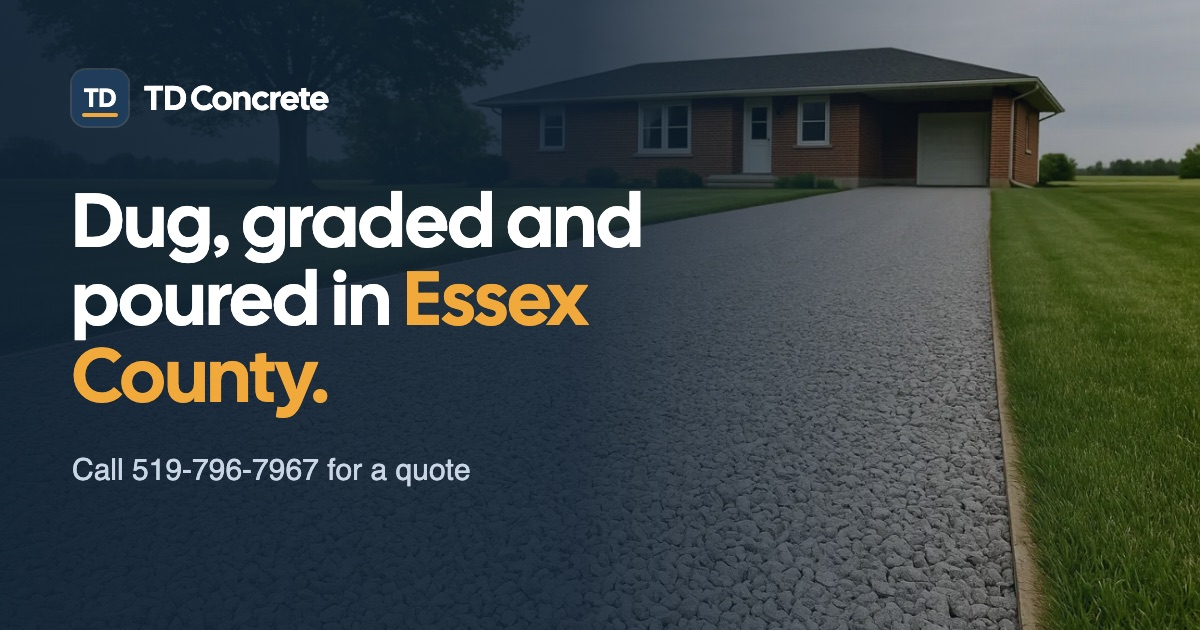
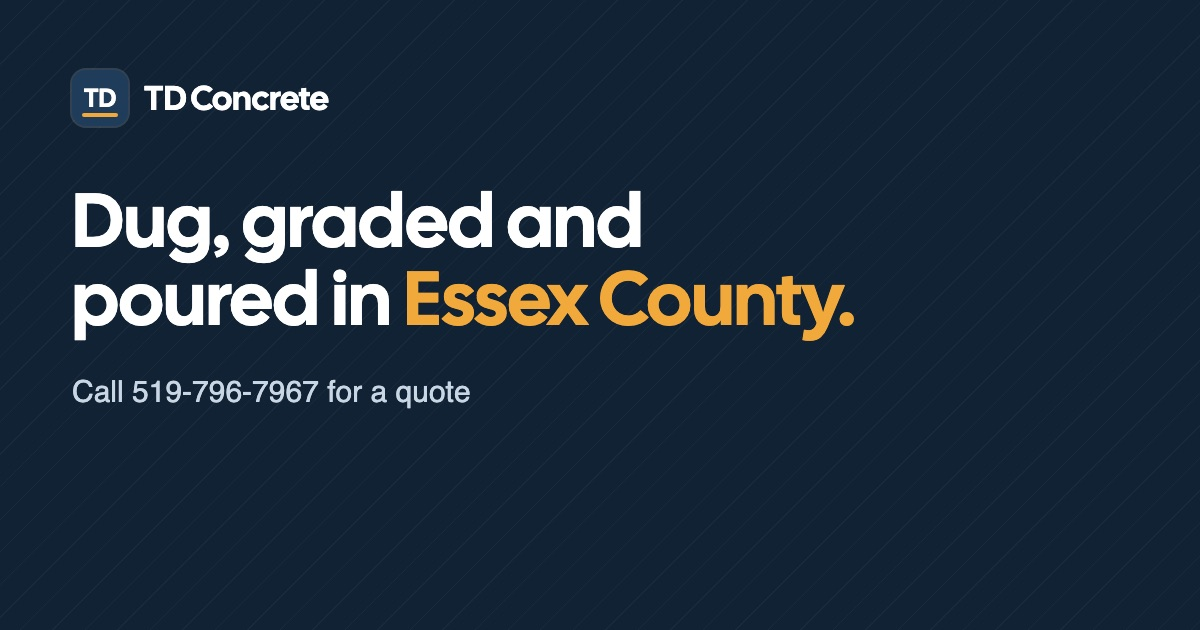
Apply Impeccable sweep and finish review fixes
Truer hero and step copy, new grey concrete example, Example: alts,
no accent on light headings, photo clear of hero buttons, job error in
its fieldset, 16px small text, TEXTS switch, per-job hints, plain og.

Claude-Session: https://claude.ai/code/session_019h48YhzNBt4QpN2Q8Ci4B8

diff --git a/index.html b/index.html
@@ -69,7 +69,7 @@ section{padding:64px 0}
 .accent{color:var(--amber-ink)}
 .on-navy .accent,.on-deep .accent,.hero .accent{color:var(--amber)}
 .head{display:grid;gap:16px;justify-items:start;max-width:640px}
-.lede{font-size:clamp(17px,4.6vw,19px);color:var(--soft);max-width:38ch}
+.lede{font-size:clamp(17px,4.6vw,19px);line-height:1.55;color:var(--soft);max-width:38ch}
 .on-navy .lede,.on-deep .lede{color:var(--on-dark-soft)}
 
 /* Eyebrow: a few key headings only. A label, not a button. */
@@ -102,7 +102,7 @@ section{padding:64px 0}
 .hero-photo{position:absolute;left:0;right:0;bottom:0;height:calc(var(--peek) + 24px);z-index:-2}
 .hero-photo img{width:100%;height:100%;object-fit:cover;object-position:62% 22%}
 .hero::after{content:"";position:absolute;inset:0;z-index:-1;pointer-events:none;background:linear-gradient(180deg,rgba(16,34,52,0) 0,rgba(16,34,52,0) calc(100% - var(--peek) - 24px),rgba(16,34,52,.96) calc(100% - var(--peek) - 24px),rgba(16,34,52,.55) calc(100% - var(--peek) + 30px),rgba(16,34,52,.08) 100%)}
-.hero-copy{position:relative;display:grid;gap:20px;justify-items:start;padding-top:48px;padding-bottom:var(--peek)}
+.hero-copy{position:relative;display:grid;gap:20px;justify-items:start;padding-top:48px;padding-bottom:calc(var(--peek) + 28px)}
 .hero h1{color:#fff;font-size:clamp(42px,12vw,80px);line-height:1.02;max-width:12ch}
 /* H1 bounce-in (after lpmr.co.uk): each letter slides in from 50px right with a slight overshoot, 20ms apart */
 .hero h1 .w{display:inline-block;white-space:nowrap}
@@ -160,14 +160,14 @@ input[type=text]:focus,textarea:focus{outline:none;border-color:var(--focus)}
 .chips label{display:inline-flex;align-items:center;min-height:48px;padding:0 18px;border-radius:var(--pill);background:var(--field);border:2px solid transparent;font:16px/1 var(--text);color:var(--ink);cursor:pointer;margin:0;transition:border-color .15s,background-color .15s,color .15s}
 .chips input:focus-visible+label{outline:3px solid var(--focus);outline-offset:2px}
 .chips input:checked+label{background:var(--ink);color:#fff}
-.err{display:none;font-size:15px;color:var(--error)}
+.err{display:none;font-size:16px;color:var(--error)}
 .field.bad .err{display:block}
 .field.bad input[type=text],.field.bad textarea,.field.bad input[type=text]:focus,.field.bad textarea:focus{border-color:var(--error)}
 form .btn-primary{width:100%}
 form .btn-primary:focus-visible{outline:2px solid var(--focus);outline-offset:2px}
-.after{font-size:15px;color:var(--soft)}
+.after{font-size:16px;color:var(--soft)}
 .sent{display:grid;gap:12px;padding:16px;border-radius:16px;background:var(--field);color:var(--ink)}
-.sent pre{margin:0;white-space:pre-wrap;font:15px/1.5 var(--text);color:var(--body)}
+.sent pre{margin:0;white-space:pre-wrap;font:16px/1.5 var(--text);color:var(--body)}
 .sent .row2{display:flex;flex-wrap:wrap;gap:10px 18px;align-items:center}
 .linkbtn{display:inline-flex;align-items:center;min-height:44px;padding:0 18px;border-radius:var(--pill);border:2px solid var(--ink);background:none;color:var(--ink);font:400 16px/1 var(--display);cursor:pointer;text-decoration:none}
 .nw{white-space:nowrap;font-variant-numeric:normal}
@@ -278,9 +278,9 @@ FINISH: unreviewed and undocumented is unfinished; this build ends with the fini
     <img src="img/hero-phone.webp" alt="" width="900" height="600" fetchpriority="high">
   </picture>
   <div class="wrap hero-copy">
-    <p class="eyebrow">Excavating &amp; concrete</p>
+    <p class="eyebrow">Homes &amp; businesses</p>
     <h1 id="h1">Dug, graded and poured in <span class="accent">Essex County.</span></h1>
-    <p class="promise">We come out, look at the job with you, and give you a straight quote.</p>
+    <p class="promise">Call or send us the job, and we'll get back to you with a straight quote.</p>
     <div class="actions">
       <a class="btn btn-primary" href="#quote">Get a quote</a>
       <a class="btn btn-ghost" href="#services">See what we do</a>
@@ -291,7 +291,7 @@ FINISH: unreviewed and undocumented is unfinished; this build ends with the fini
 <section class="on-navy" id="services" aria-labelledby="h-services">
   <div class="wrap">
     <div class="head rise">
-      <p class="eyebrow">Full excavating &amp; concrete</p>
+      <p class="eyebrow">Services</p>
       <h2 id="h-services">From the first dig to the <span class="accent">last load of stone.</span></h2>
     </div>
     <ul class="rows">
@@ -309,11 +309,11 @@ FINISH: unreviewed and undocumented is unfinished; this build ends with the fini
 
 <section class="on-paper" aria-labelledby="h-shots">
   <div class="wrap">
-    <h2 id="h-shots" class="rise">Big yard or small, <span class="accent">we'll quote it.</span></h2>
+    <h2 id="h-shots" class="rise">Big yard or small, we'll quote it.</h2>
     <ul class="shots">
-      <li class="rise"><a class="shot" href="#quote" data-job="Excavating"><img src="img/excavating.webp" alt="An excavator beside a freshly dug house foundation" width="720" height="900" loading="lazy" decoding="async"><span class="t">Excavating<span class="arrow" aria-hidden="true"><svg><use href="#i-arrow"/></svg></span></span></a></li>
-      <li class="rise"><a class="shot" href="#quote" data-job="Concrete"><img src="img/concrete.webp" alt="A freshly poured broom-finished concrete patio" width="720" height="900" loading="lazy" decoding="async"><span class="t">Concrete<span class="arrow" aria-hidden="true"><svg><use href="#i-arrow"/></svg></span></span></a></li>
-      <li class="rise"><a class="shot" href="#quote" data-job="Grading"><img src="img/grading.webp" alt="A backyard graded flat with fresh topsoil" width="720" height="900" loading="lazy" decoding="async"><span class="t">Grading &amp; topsoil<span class="arrow" aria-hidden="true"><svg><use href="#i-arrow"/></svg></span></span></a></li>
+      <li class="rise"><a class="shot" href="#quote" data-job="Excavating"><img src="img/excavating.webp" alt="Example: an excavator beside a freshly dug house foundation" width="720" height="900" loading="lazy" decoding="async"><span class="t">Excavating<span class="arrow" aria-hidden="true"><svg><use href="#i-arrow"/></svg></span></span></a></li>
+      <li class="rise"><a class="shot" href="#quote" data-job="Concrete"><img src="img/concrete.webp" alt="Example: a new broom-finished concrete driveway apron" width="720" height="900" loading="lazy" decoding="async"><span class="t">Concrete<span class="arrow" aria-hidden="true"><svg><use href="#i-arrow"/></svg></span></span></a></li>
+      <li class="rise"><a class="shot" href="#quote" data-job="Grading"><img src="img/grading.webp" alt="Example: a backyard graded flat with fresh topsoil" width="720" height="900" loading="lazy" decoding="async"><span class="t">Grading &amp; topsoil<span class="arrow" aria-hidden="true"><svg><use href="#i-arrow"/></svg></span></span></a></li>
     </ul>
   </div>
 </section>
@@ -322,11 +322,11 @@ FINISH: unreviewed and undocumented is unfinished; this build ends with the fini
   <div class="wrap split">
     <div class="rise">
       <h2 id="h-care">We treat your property like it's ours.</h2>
-      <p class="lede" style="margin-top:16px">Heavy machines on your lawn are a lot to trust anyone with. We dig where we said we would, and we leave your place ready to use.</p>
+      <p class="lede" style="margin-top:16px">Heavy machines on your lawn are a lot to trust anyone with, and we don't take that lightly.</p>
     </div>
     <ul class="claims">
-      <li class="rise"><svg viewBox="0 0 40 40" fill="none" stroke="currentColor" stroke-width="2.4" stroke-linecap="round" stroke-linejoin="round" aria-hidden="true"><path d="M8 34l8-22 6 14 4-8 6 16"/><path d="M4 34h32"/></svg>We walk the job with you first</li>
-      <li class="rise"><svg viewBox="0 0 40 40" fill="none" stroke="currentColor" stroke-width="2.4" stroke-linecap="round" stroke-linejoin="round" aria-hidden="true"><path d="M4 16l12-9 12 9v16H4z"/><path d="M28 30c3 0 8 1 8 3M30 24c2 0 6 1 6 3"/></svg>Graded so water runs away from your house</li>
+      <li class="rise"><svg viewBox="0 0 40 40" fill="none" stroke="currentColor" stroke-width="2.4" stroke-linecap="round" stroke-linejoin="round" aria-hidden="true"><rect x="9" y="7" width="22" height="28" rx="3"/><path d="M15 7V4h10v3M14 17h12M14 23h12M14 29h7"/></svg>We walk the job with you first</li>
+      <li class="rise"><svg viewBox="0 0 40 40" fill="none" stroke="currentColor" stroke-width="2.4" stroke-linecap="round" stroke-linejoin="round" aria-hidden="true"><path d="M5 20l10-8 10 8v9H5z"/><path d="M3 34l34-5"/><path d="M33 12s-4 4.5-4 7a4 4 0 0 0 8 0c0-2.5-4-7-4-7z"/></svg>Graded so water runs away from your house</li>
       <li class="rise"><svg viewBox="0 0 40 40" fill="none" stroke="currentColor" stroke-width="2.4" stroke-linecap="round" stroke-linejoin="round" aria-hidden="true"><path d="M8 12h24l-2 22H10z"/><path d="M5 12h30M16 12V7h8v5"/></svg>Cleaned up before we leave</li>
     </ul>
     <!-- Their own ad claims. The brief marks them UNVERIFIED: remove `hidden` once the owner confirms each one. -->
@@ -342,9 +342,9 @@ FINISH: unreviewed and undocumented is unfinished; this build ends with the fini
   <div class="wrap">
     <h2 id="h-how" class="rise">How it <span class="accent">works.</span></h2>
     <ol class="steps">
-      <li class="rise"><div><b>Call us or send the job.</b><span>Big job or small, ask.</span></div></li>
-      <li class="rise"><div><b>We come and look.</b><span>Then you get a straight quote.</span></div></li>
-      <li class="rise"><div><b>We do the work.</b><span>And leave it clean.</span></div></li>
+      <li class="rise"><div><b>Call us or fill in the form.</b><span>A rough idea is enough.</span></div></li>
+      <li class="rise"><div><b>We get back to you.</b><span>With a straight quote for the job.</span></div></li>
+      <li class="rise"><div><b>We do the work.</b><span>Driveways to parking lots.</span></div></li>
     </ol>
   </div>
 </section>
@@ -352,12 +352,11 @@ FINISH: unreviewed and undocumented is unfinished; this build ends with the fini
 <section class="on-paper ask" id="quote" aria-labelledby="h-ask">
   <div class="wrap">
     <div class="head rise">
-      <p class="eyebrow">Quotes</p>
       <h2 id="h-ask">Tell us about the job</h2>
-      <p class="lede">A rough idea is plenty. We'll ask the rest when we come and look.</p>
+      <p class="lede">A rough idea is plenty. We'll call you back to go over it.</p>
     </div>
     <form id="quoteForm" class="rise" novalidate>
-      <fieldset class="field" id="f-job">
+      <fieldset class="field" id="f-job" aria-describedby="e-job">
         <legend>What do you need?</legend>
         <div class="chips">
           <input type="radio" name="job" id="j1" value="Gravel driveway"><label for="j1">Gravel driveway</label>
@@ -369,6 +368,7 @@ FINISH: unreviewed and undocumented is unfinished; this build ends with the fini
           <input type="radio" name="job" id="j7" value="Fill or removal"><label for="j7">Fill or removal</label>
           <input type="radio" name="job" id="j8" value="Large project"><label for="j8">Large project</label>
         </div>
+        <p class="err" id="e-job" role="alert">Pick a job or tell us a bit about it below.</p>
       </fieldset>
       <div class="field" id="f-what">
         <label for="what">Tell us a bit more <small>(optional)</small></label>
@@ -383,14 +383,13 @@ FINISH: unreviewed and undocumented is unfinished; this build ends with the fini
         <label for="where">Your town or road <small>(optional)</small></label>
         <input type="text" id="where" name="where" autocomplete="address-level2" maxlength="80" placeholder="e.g. Essex, Kingsville, Harrow">
       </div>
-      <p class="err" id="e-job" role="alert">Pick a job above or tell us a bit about it.</p>
       <button class="btn btn-primary" type="submit"><svg aria-hidden="true"><use href="#i-chat"/></svg>Text this to TD Concrete</button>
       <div class="sent" id="sent" role="status" hidden>
         <p>Didn't open your messages? Call us for a quote at <a class="nw" href="tel:+15197967967">519-796-7967</a>, or copy this and send it yourself:</p>
         <pre id="msg"></pre>
         <div class="row2"><button class="linkbtn" type="button" id="copy">Copy message</button><a class="linkbtn" id="openSms" href="sms:+15197967967">Open in Messages</a></div>
       </div>
-      <p class="after">Opens your messages with this written out. Rather talk? Call <a class="nw" href="tel:+15197967967">519-796-7967</a>.</p>
+      <p class="after">Opens your messages with this written out. No reply? Call <a class="nw" href="tel:+15197967967">519-796-7967</a>.</p>
     </form>
   </div>
 </section>
@@ -421,6 +420,7 @@ FINISH: unreviewed and undocumented is unfinished; this build ends with the fini
 var CONFIG = {
   SMS: '+15197967967',   // texts and calls; texting not yet confirmed by the owner
   NAME: 'TD Concrete',
+  TEXTS: true,           // false if the number can't take texts: removes the circle, the form calls instead
   FLOAT: true            // the floating text circle; false removes it
 };
 document.documentElement.classList.add('js');
@@ -454,7 +454,7 @@ document.documentElement.classList.add('js');
   [].forEach.call(document.querySelectorAll('[data-job]'),function(a){
     a.addEventListener('click',function(){
       var r=document.querySelector('#quoteForm input[name=job][value="'+a.getAttribute('data-job')+'"]');
-      if(r){r.checked=true;document.getElementById('e-job').style.display=''}
+      if(r){r.checked=true;r.dispatchEvent(new Event('change',{bubbles:true}))}
     });
   });
 })();
@@ -463,6 +463,11 @@ document.documentElement.classList.add('js');
 (function(){
   var form=document.getElementById('quoteForm');if(!form)return;
   var ejob=document.getElementById('e-job'),sent=document.getElementById('sent');
+  if(!CONFIG.TEXTS){form.querySelector('button[type=submit]').lastChild.textContent='Call 519-796-7967';form.querySelector('.after').hidden=true}
+  // the details box suggests what to mention for the chosen job
+  var hints={'Gravel driveway':'Rough length, new or a refresh, and what\'s there now…','Grading':'How big an area, and where the water sits after rain…','Topsoil or stone':'What material, and roughly how many loads…','Concrete':'What it\'s for (pad, walkway, apron) and rough size…','Excavating':'What\'s going in, and how big the dig is…','Pool fill-in or demo':'Rough pool size, and in-ground or above-ground…','Fill or removal':'What needs filling or hauling away, and how much…','Large project':'What the job is, where, and when it needs doing…'};
+  var ta=document.getElementById('what'),ph0=ta.placeholder;
+  form.addEventListener('change',function(e){if(e.target.name==='job')ta.placeholder=hints[e.target.value]||ph0});
   function val(id){return document.getElementById(id).value.trim()}
   function mark(id,bad){var f=document.getElementById(id);f.classList.toggle('bad',bad);var c=f.querySelector('input[type=text],textarea');if(c)c.setAttribute('aria-invalid',bad?'true':'false')}
   form.addEventListener('input',function(e){var f=e.target.closest('.field');if(f&&f.classList.contains('bad')&&e.target.value.trim())f.classList.remove('bad')});
@@ -483,13 +488,14 @@ document.documentElement.classList.add('js');
     var href='sms:'+CONFIG.SMS+'?&body='+encodeURIComponent(msg);
     document.getElementById('msg').textContent=msg;
     document.getElementById('openSms').href=href;
+    if(!CONFIG.TEXTS){location.href='tel:'+CONFIG.SMS;return}
     location.href=href;
     // if no messages app opened (desktop, some in-app browsers), show the message and the number instead
     setTimeout(function(){sent.hidden=false},900);
   });
   document.getElementById('copy').addEventListener('click',function(){
     var b=this,t=document.getElementById('msg').textContent;
-    if(navigator.clipboard)navigator.clipboard.writeText(t).then(function(){b.textContent='Copied'},function(){b.textContent='Select the text above to copy'});
+    if(navigator.clipboard)navigator.clipboard.writeText(t).then(function(){b.textContent='Copied';setTimeout(function(){b.textContent='Copy message'},2500)},function(){b.textContent='Select the text above to copy'});
     else b.textContent='Select the text above to copy';
   });
 })();
@@ -497,7 +503,7 @@ document.documentElement.classList.add('js');
 /* ===== Floating text circle: shows after the hero, hides while the form is on screen ===== */
 (function(){
   var fl=document.getElementById('float');if(!fl)return;
-  if(!CONFIG.FLOAT||!('IntersectionObserver' in window)){fl.remove();return}
+  if(!CONFIG.FLOAT||!CONFIG.TEXTS||!('IntersectionObserver' in window)){fl.remove();return}
   var pastHero=false,formIn=false;
   function sync(){var on=pastHero&&!formIn;fl.classList.toggle('on',on);fl.tabIndex=on?0:-1;fl.setAttribute('aria-hidden',on?'false':'true')}
   new IntersectionObserver(function(es){pastHero=!es[0].isIntersecting;sync()},{threshold:.15}).observe(document.getElementById('hero'));

diff --git a/tools/og.html b/tools/og.html
@@ -1,8 +1,8 @@
 <!doctype html><html><head><link rel="stylesheet" href="https://fonts.googleapis.com/css2?family=Cal+Sans&display=swap"><style>
 html,body{margin:0;width:1200px;height:630px;overflow:hidden}
-.c{position:relative;width:1200px;height:630px;background:#102234 url(../img/hero.webp) 50% 70%/cover;font-family:"Cal Sans",sans-serif;color:#fff}
-.c::before{content:"";position:absolute;inset:0;background:linear-gradient(90deg,rgba(16,34,52,.95) 0%,rgba(16,34,52,.86) 48%,rgba(16,34,52,.3) 80%,rgba(16,34,52,.1) 100%)}
-.t{position:absolute;left:72px;top:70px;right:420px}
+.c{position:relative;width:1200px;height:630px;background:#102234 repeating-linear-gradient(135deg,transparent 0 22px,rgba(255,255,255,.035) 22px 23px);font-family:"Cal Sans",sans-serif;color:#fff}
+
+.t{position:absolute;left:72px;top:70px;right:300px}
 .n{display:flex;align-items:center;gap:16px;font-size:34px}
 .m{width:56px;height:56px;border-radius:14px;background:#1f3d5a;display:grid;place-items:center;font-size:26px;position:relative;box-shadow:0 0 0 2px rgba(255,255,255,.15)}
 .m i{position:absolute;left:10px;right:10px;bottom:9px;height:4px;border-radius:2px;background:#f2a93b}

diff --git a/HANDOFF.md b/HANDOFF.md
@@ -1,0 +1,58 @@
+# TD Concrete — handoff at ~60%
+
+**Live:** https://10elizabethbell.github.io/tdConcrete/ · **Repo:** https://github.com/10elizabethbell/tdConcrete · **Built:** 2026-10-20 from Muse brief (run 2026-10-21, Facebook group "Essex County Contractor Referrals") · On the Call Sheet: yes
+
+## What's built
+- **One page, calm band style:** paper header (drawn "TD" mark + wordmark, `519-796-7967` tap-to-call top right) → hero → services (8 rows on navy) → three service photo cards → "We treat your property like it's ours." care list → How it works (3 steps, deep navy) → quote form → "Call today for a quote." closing band with the big number → footer.
+- **Hero:** eyebrow "Excavating & concrete", H1 "Dug, graded and poured in **Essex County.**" (letter bounce-in), promise "We come out, look at the job with you, and give you a straight quote.", buttons **Get a quote** (amber, to the form) and **See what we do** (outlined, to the services). On phones the copy sits on deep navy and the driveway photo shows below the buttons; on desktop the photo fills the band under a left-to-right navy fade.
+- **Palette:** paper `#f4f6fb`, slate navy `#1f3d5a`, deep navy `#102234` (faint line texture), **machine amber `#f2a93b`** as the one accent (fills only; `#8a5200` when it's text on light). Form hover/focus outline blue `#1f5fa8`.
+- **Contact wiring:** every service row and photo card jumps to the form and pre-selects that job. The form needs a job (chip or a few words) and a name, then opens a pre-written text to 519-796-7967. If no messages app opens, it shows the message with **Copy message**, **Open in Messages** and the number to call. The floating text circle appears after the hero and hides at the form. The form also says "Rather talk? Call 519-796-7967."
+- **Motion:** H1 bounce-in, `.rise` fade-up, floating circle. Under reduced motion and without JS everything shows at once (checked).
+- **Link preview / icons:** `og.jpg` (1200x630, hero photo + name + headline), `favicon.svg`, `apple-touch-icon.png` — all from my "TD" lettering, since there's no logo. Sources in `tools/`.
+
+## Images
+None of these are TD Concrete's jobs. They're shown as examples of each service, with no "our work" or "recent projects" label anywhere.
+
+| File | What it shows | Source | Licence |
+|---|---|---|---|
+| `img/hero.webp`, `img/hero-phone.webp` | fresh grey gravel driveway up to a red-brick bungalow, flat Ontario farmland | generated with gpt-image-1, 2026-10-20 ("real-estate photograph … crushed grey limestone gravel driveway … red-brick ranch-style bungalow … southwestern Ontario") | generated; OpenAI terms assign output to the user |
+| `img/excavating.webp` | excavator beside a fresh foundation dig | generated with gpt-image-1, 2026-10-20 ("residential excavation pit for a new house foundation … unbranded excavator") | same |
+| `img/concrete.webp` | broom-finished concrete patio, forms still on, evening light | generated with gpt-image-1, 2026-10-20 ("freshly poured broom-finished grey concrete patio slab …") | same |
+| `img/grading.webp` | backyard graded flat with dark topsoil, compact track loader | generated with gpt-image-1, 2026-10-20 ("large backyard freshly graded with dark screened topsoil …") | same |
+| `og.jpg`, `favicon.svg`, `apple-touch-icon.png` | link card and "TD" mark | made for this site (`tools/og.html`, `tools/icon.html`) | ours |
+
+Full prompts are in `~/.local/share/genimg/log.jsonl`; originals in the ignored `src-assets/gen/`.
+
+## Assumptions I made
+- **Voice "we":** "FULL EXCAVATING & CONCRETE SERVICES" reads like a crew. Switch to "I" if it's one person.
+- **Colours:** no logo or brand exists, so the amber comes from the trade (excavators, safety gear) and the navies from the house style.
+- **H1 place:** "Essex County" (the group they posted in, and the 519 area code). No towns are confirmed; the form's placeholder names Essex, Kingsville and Harrow as examples only.
+- **Service labels** are shortened from their ad (e.g. "Sand, Stone Fill & Broken Concrete Removal" → "Fill & concrete removal"; "Parking Lots & Large Projects" → "Parking lots & large jobs").
+- **Care promises** ("We walk the job with you first", "Graded so water runs away from your house", "Cleaned up before we leave") and the steps ("We come and look. Then you get a straight quote.", "And leave it clean.") are written as commitments. The owner must confirm each is true for them.
+- **Spelling:** Canadian (`lang="en-CA"`); phone shown as they write it, 519-796-7967.
+
+## Placeholders and gaps
+- **Their own trust claims are on the page but hidden** (`#adClaims` in the care section, with a comment): "35+ years of hands-on experience", "Fully insured", "Locally owned & operated". The brief marks them unverified and says not to publish them as fact. Remove `hidden` once the owner confirms; they're the strongest hook in their ad.
+- **Texting is unconfirmed.** The form, the text circle and "Open in Messages" all send to 519-796-7967. If it's a landline, texts vanish silently: switch the circle to `tel:` and the form button to "Call to send this", or set `CONFIG.SMS` to a mobile.
+- **No email** (so no footer email), **no Facebook business page** (so no "see more of our work" link under the photos and none in the footer). The ad came from a personal profile whose role is unknown; I didn't link or name it.
+- **No real photos, logo, hours, reviews, prices or owner name.** Nothing about them is on the page.
+
+## Questions for the owner
+1. Can 519-796-7967 take texts? If not, is there a mobile number for quote texts?
+2. Can we say "35+ years", "fully insured" and "locally owned & operated" on the site?
+3. Photos of real jobs (driveways, digs, pours), ideally wide and landscape, to replace the examples.
+4. Which towns do you cover, and do you go into Windsor / Chatham-Kent?
+5. Is there a logo, a truck lettering or colours you use?
+6. A business email and Facebook page to put in the footer?
+7. Who's the contact name customers will deal with, if you'd like it on the site?
+8. Hours, and do you do winter work / snow?
+
+## Ideas not built (yours to pick)
+- **Signature motion (opt-in), trade worlds:** (1) **drag to grade**: a grader blade the visitor drags across a rutted gravel driveway, leaving it smooth and crowned (best fit: it's their most-listed job); (2) stone pouring off a tailgate into a pile that the finger spreads; (3) a broom-finish trowel stroke across wet concrete; (4) an excavator bucket that digs where you tap; (5) topsoil raked flat.
+- A before/after slider as soon as there's a real driveway pair.
+- A short "Driveway refresh vs new install" explainer if they say most calls are about that.
+- Impeccable conflicts (kept on purpose): see the review notes below.
+
+## Not verified
+- Real-device touch, real SMS handoff on iOS/Android and inside Facebook's in-app browser, and whether the number receives texts at all.
+- Frame rate on older phones (motion is CSS-only and light).
